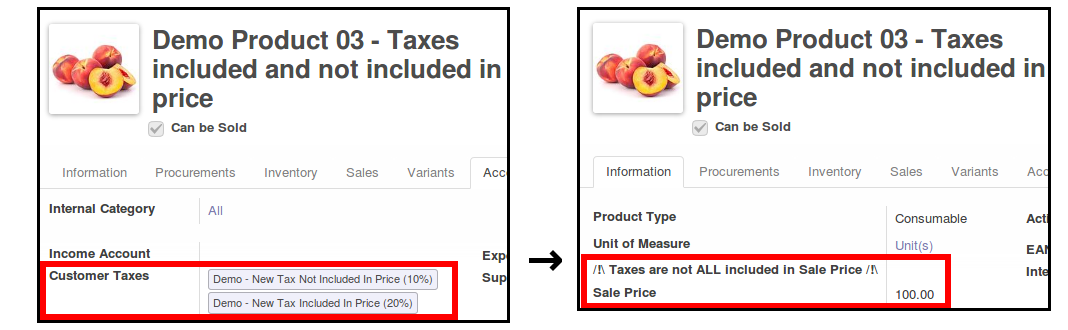
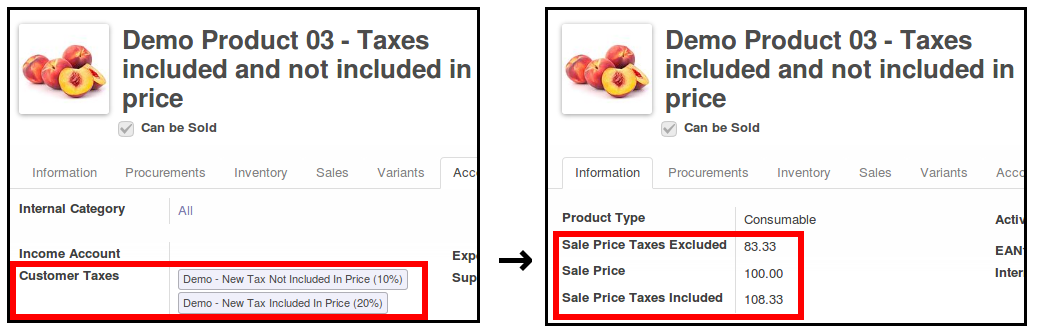
[FIX/IMP] xml id view form / display differents prices when various sale taxes

diff --git a/product_sale_tax_price_included/models/product_template.py b/product_sale_tax_price_included/models/product_template.py
@@ -26,11 +26,6 @@ class ProductTemplate(models.Model):
         compute='_compute_price_vat_incl',
         string='Sale Price Taxes Included',
         )
-    warning_various_taxes = fields.Char(
-        string='/!\\ Taxes are not ALL included in Sale Price /!\\',
-        help='See the customer taxes for this product',
-        readonly=True,
-        )
 
     @api.depends('list_price', 'taxes_id', 'taxes_id.type', 'taxes_id.amount')
     def _compute_price_vat_excl(self):
@@ -43,6 +38,13 @@ class ProductTemplate(models.Model):
         taxes = self.env['account.tax'].browse(self.taxes_id.ids)
         info = taxes.compute_all(self.list_price, 1)
         self.price_vat_incl = info['total_included']
+
+    @api.depends('list_price', 'taxes_id', 'taxes_id.type', 'taxes_id.amount')
+    def _compute_price_various_taxes(self):
+        taxes = self.env['account.tax'].browse(self.taxes_id.ids)
+        info = taxes.compute_all(self.list_price, 1)
+        self.price_vat_incl = info['total_included']
+        self.price_vat_excl = info['total']
 
     @api.depends('taxes_id')
     def _compute_sale_tax_price_include(self):

diff --git a/product_sale_tax_price_included/README.rst b/product_sale_tax_price_included/README.rst
@@ -35,8 +35,8 @@ In Customer taxes, there's a boolean called "Tax included in Price".
    :alt: A product with sale price and sale price with taxes
    :width: 75%
 
-- **Or** if you choose two customer taxes, one with taxes included in price, and the other ine without taxes included in price,
-this module displayed only the sale price AND a warning message.
+- **Or** if you choose two customer taxes, one included in price, and the other one not included in price,
+this module displays the sale price and the two calculated prices.
 
 .. image:: /product_sale_tax_price_included/static/description/product_tax_included_and_not.png
    :alt: A product with sale price and a warning message
